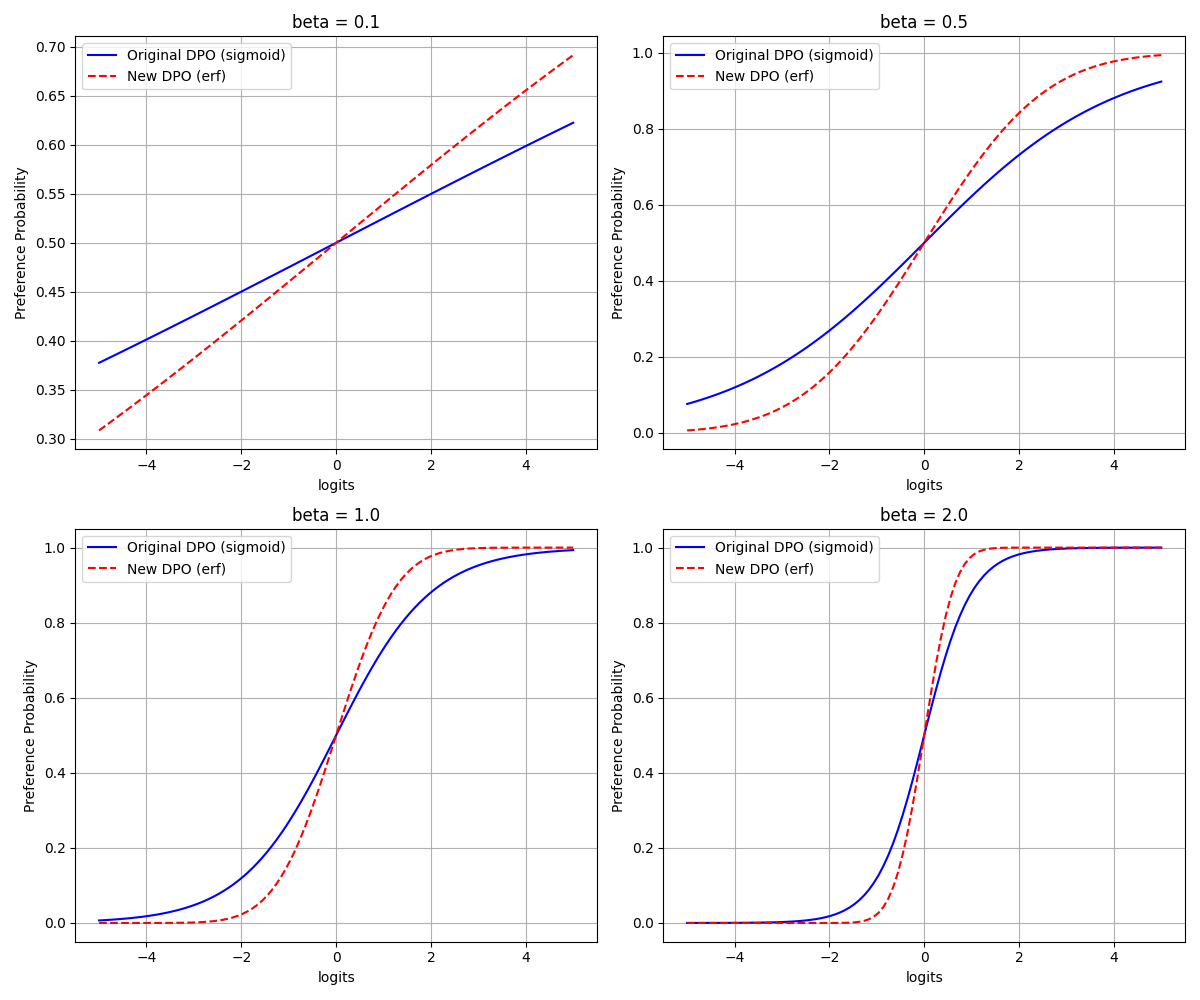
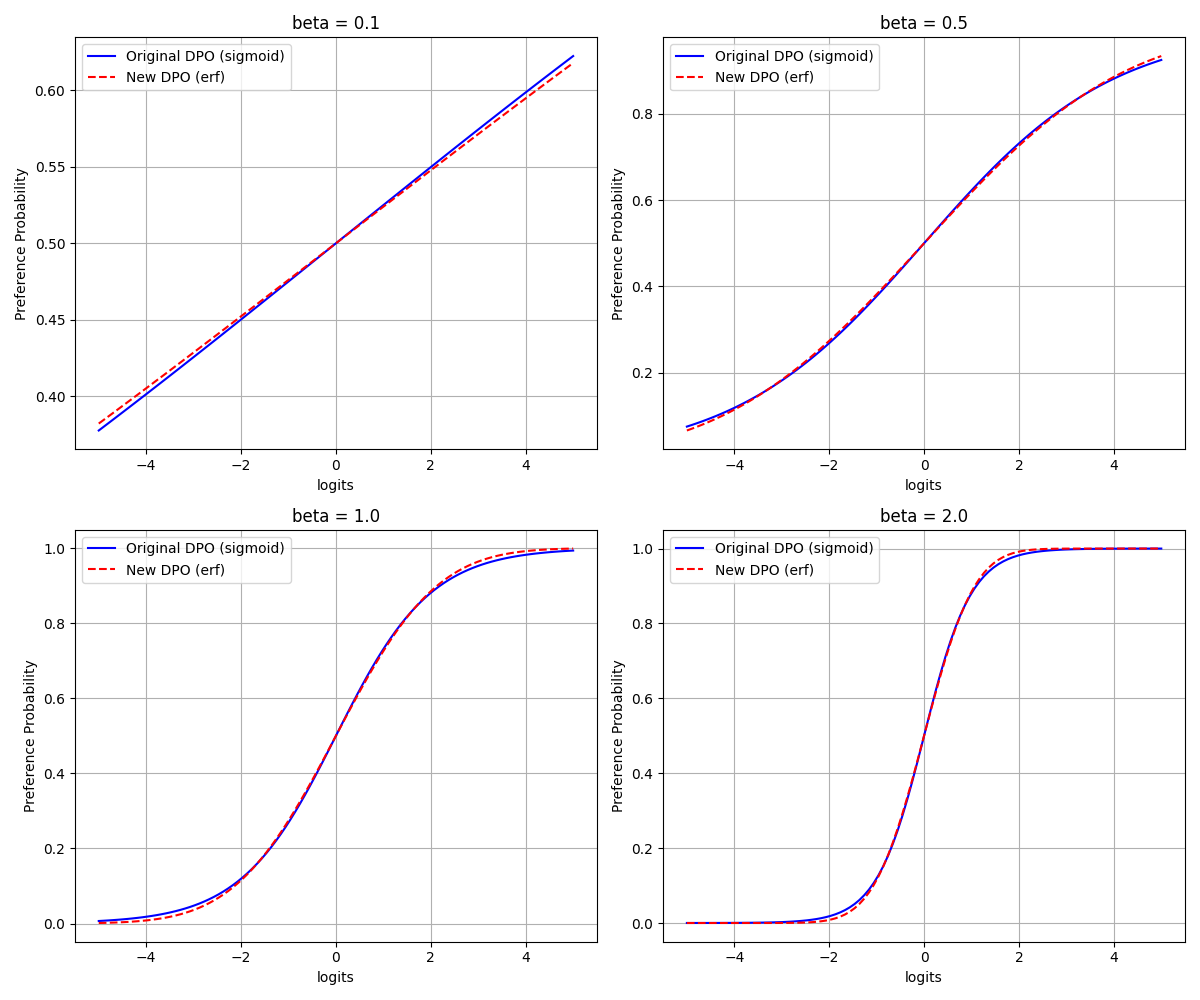
quick

diff --git a/src/llamafactory/train/dpo/trainer.py b/src/llamafactory/train/dpo/trainer.py
@@ -101,7 +101,7 @@ def compute_pref_probs(logits: torch.FloatTensor, beta: torch.FloatTensor | floa
     if disco_pref:
         # disco-DPO: p(y_w > y_l) = 1/2 * (1 + erf((β * logits)/√2))
         scaled_logits = beta * logits  # 广播机制自动处理标量或张量
-        pref_probs = 0.5 * (1 + torch.erf(0.01 * scaled_logits / math.sqrt(2))) # 很容易数值溢出, 所以乘以 0.01
+        pref_probs = 0.5 * (1 + torch.erf(0.6 * scaled_logits / math.sqrt(2))) # 很容易数值溢出, 所以乘以 0.01
     else:
         # Standard DPO: p(y_w > y_l) = sigmoid(β * logits)
         pref_probs = torch.sigmoid(beta * logits)  # 广播机制自动处理标量或张量
@@ -208,12 +208,12 @@ class CustomDPOTrainer(DPOTrainer):
                     print(f"[DEBUG]   {name}: shape={param.shape}, requires_grad={param.requires_grad}")
                 
                 # 为beta_head参数设置更高的学习率（例如，是基本学习率的10倍）
-                beta_head_lr = self.args.learning_rate * 10.0
-                
+                # beta_head_lr = self.args.learning_rate * 10.0  # 10倍
+                beta_head_lr = self.args.learning_rate * 0.3 # 慢一定更新, 不然会不小到了 beta -> 0 的局部最优解了. 
                 # 添加参数组
                 params_config = {
                     "params": beta_head_params,
-                    "lr": beta_head_lr,  # 使用更高的学习率
+                    "lr": beta_head_lr,  # 使用不同的学习率
                 }
                 
                 # 复制原优化器配置（除了学习率和参数）

diff --git a/src/llamafactory/train/dpo/beta_head.py b/src/llamafactory/train/dpo/beta_head.py
@@ -32,15 +32,17 @@ class HiddenStateBetaHead(nn.Module):
         
         if projection_dim is None:
             projection_dim = hidden_size
+            projection_dim = 128
 
 
         # 投影层+两层神经网络  
         layers = [
             nn.Linear(hidden_size, projection_dim),
             nn.GELU(),
-            nn.Linear(projection_dim, projection_dim // 2),
-            nn.GELU(),
-            nn.Linear(projection_dim // 2, 1),
+            # nn.Linear(projection_dim, projection_dim // 2),
+            # nn.GELU(),
+            # nn.Linear(projection_dim // 2, 1),
+            nn.Linear(projection_dim, 1),
             nn.Softplus()  # 确保输出非负
         ]
         

diff --git a/tmp.py b/tmp.py
@@ -20,7 +20,7 @@ for i, beta in enumerate(betas):
     p_original = 1 / (1 + np.exp(-beta * logits))
     
     # 计算改进后的偏好概率（erf）
-    p_new = 0.5 * (1 + erf(beta * logits / np.sqrt(2)))
+    p_new = 0.5 * (1 + erf(0.6 * beta * logits / np.sqrt(2)))  # 0.6 是经验值
     
     # 绘制曲线
     axes[i].plot(logits, p_original, label='Original DPO (sigmoid)', color='blue')
@@ -33,5 +33,5 @@ for i, beta in enumerate(betas):
 
 # 调整子图间距
 plt.tight_layout()
-
+# plt.show()
 plt.savefig('xdpo/imgs/disco_vs_sigmoid_pref_prob.png')

diff --git a/xdpo/README.md b/xdpo/README.md
@@ -1,0 +1,12 @@
+# README
+
+## 文件说明
+
+- `run_demo.py`: 运行demo
+- `run_experiments.sh`: 运行实验
+- `config_1.yaml`: 实验1的配置
+- `config_2.yaml`: 实验2的配置
+- `config_3.yaml`: 实验3的配置
+- `config_4.yaml`: 实验4的配置
+
+- `check.sh`: 最低配置的检查实验代码是否正确运行
